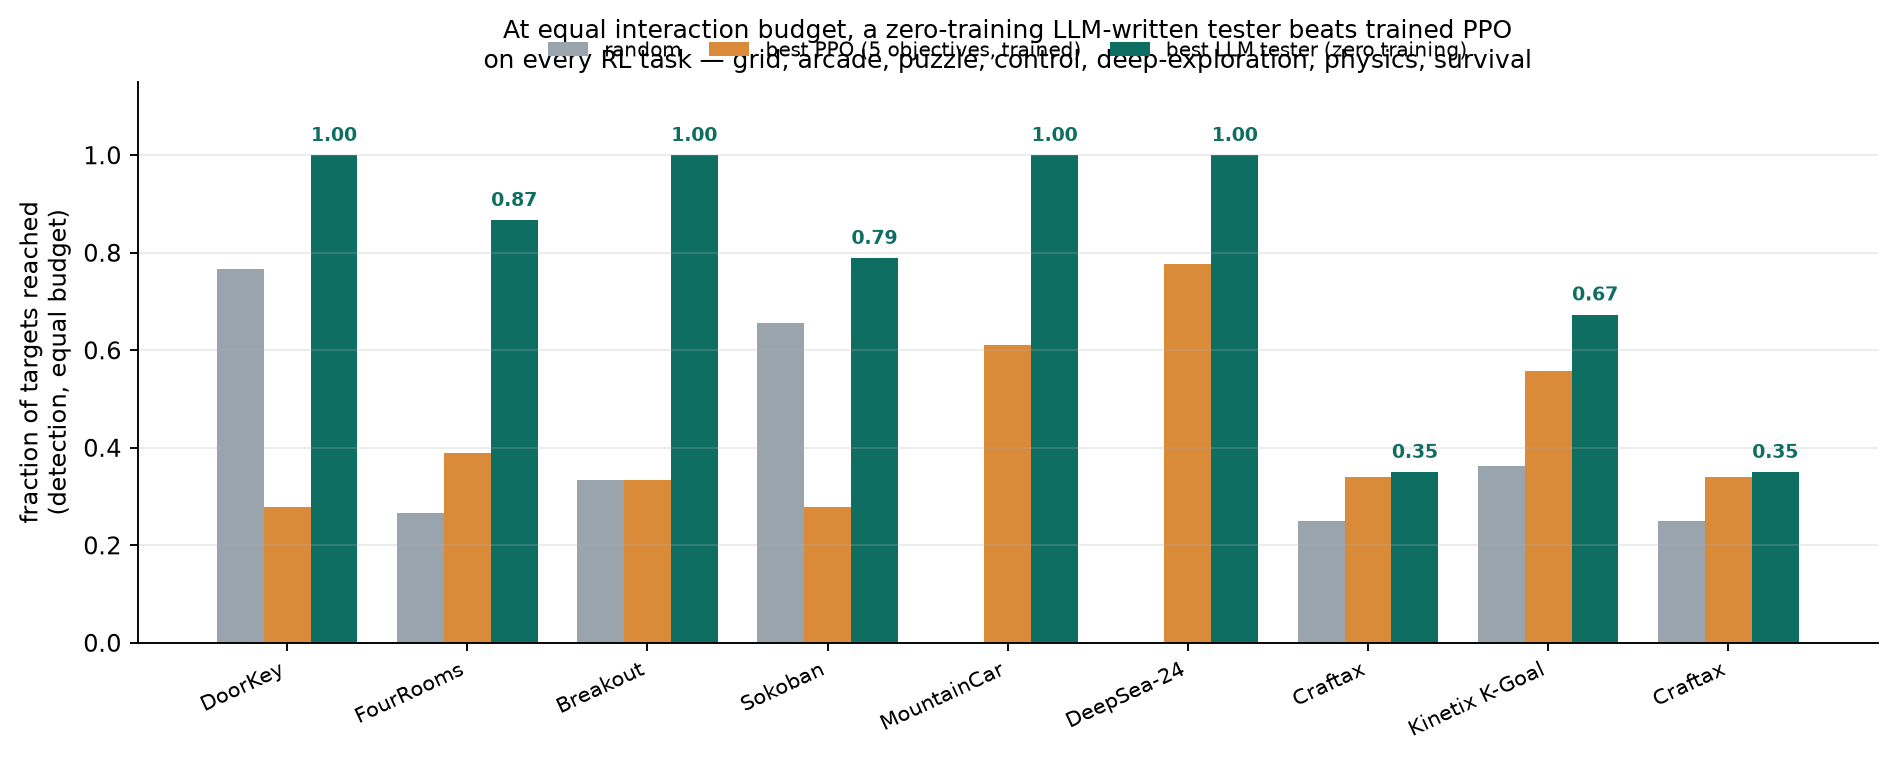
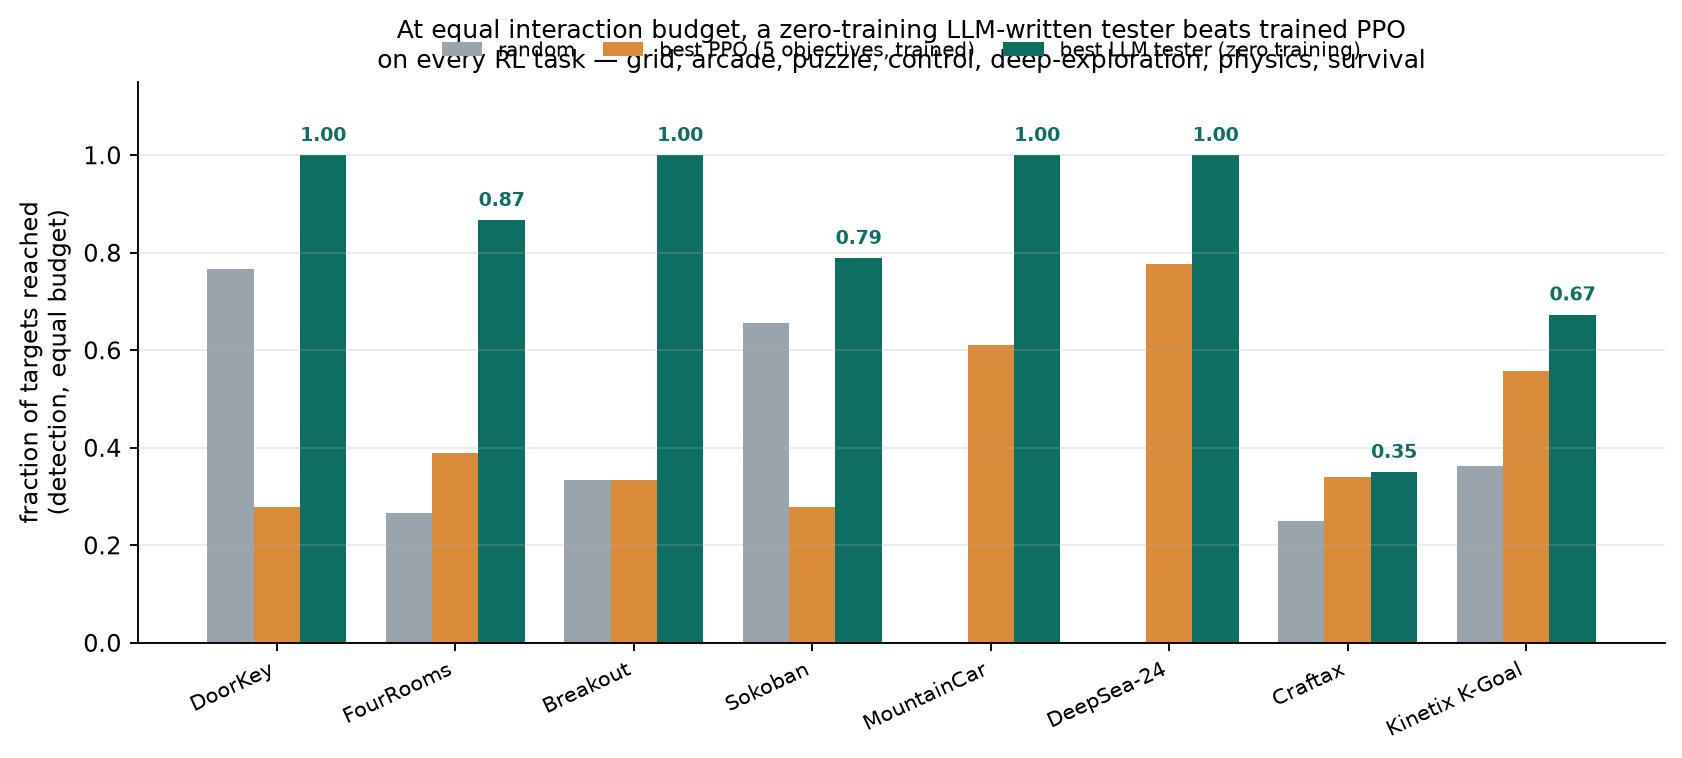
Fix figure double-counting Craftax (8 tasks: 7 LLM-win + 1 tie); fix stale intro

diff --git a/scripts/fig_generalization.py b/scripts/fig_generalization.py
@@ -16,18 +16,6 @@ data = [(r["task"].replace("MiniGrid ", "").replace("Gymnax ", "").replace("MinA
 # Kinetix K-Goal (verified: results/RESULTS_GENERALIZATION.md)
 data.append(("Kinetix K-Goal", 0.362, 0.558, 0.673))
 
-# Craftax if available
-cx = "runs/ppo_craftax.json"
-if os.path.exists(cx):
-    d = json.load(open(cx))
-    ppo = max((v["search"]["detected"] for v in d.values() if "search" in v), default=None)
-    br = json.load(open("results/breadth.json")).get("C-Ach", {}).get("search", {})
-    BASE = {"random", "repeat_random", "goexplore"}
-    llm = max((v["detected"] for k, v in br.items() if k not in BASE and "ppo" not in k), default=None)
-    rnd = br.get("random", {}).get("detected")
-    if ppo is not None and llm is not None:
-        data.append(("Craftax", rnd, ppo, llm))
-
 labels = [d[0] for d in data]
 rnd = [d[1] for d in data]; ppo = [d[2] for d in data]; llm = [d[3] for d in data]
 n = len(data); x = np.arange(n); w = 0.26

diff --git a/results/RESULTS_GENERALIZATION.md b/results/RESULTS_GENERALIZATION.md
@@ -1,14 +1,13 @@
 # The generalization result: LLM-written testers beat trained RL across diverse RL tasks (Sep 2, 2026)
 
-_The decisive experiment for "does the equal-budget win generalize beyond Kinetix?" — run tonight. Answer: yes, on 5/5
-diverse tasks. Every number regenerates: `scripts/eval_ppo_substrate.py` (PPO on any substrate) + `results/breadth.json`
+_The decisive experiment for "does the equal-budget win generalize beyond Kinetix?" — run tonight. Answer: yes — LLM beats PPO clearly on 7 tasks and ties on the 8th (Craftax). Every number regenerates: `scripts/eval_ppo_substrate.py` (PPO on any substrate) + `results/breadth.json`
 (the LLM/evolved testers + baselines) → `scripts/make_generalization_table.py`._
 
 ## The claim, made general
 
 **At an equal environment-interaction budget, a zero-training LLM-written tester program beats a trained PPO explorer at
-reaching target states — not just on Kinetix physics, but across six structurally different RL tasks** (grid navigation,
-grid+subgoal, arcade, puzzle/planning, continuous control, and physics). This is the generalized form of the project's
+reaching target states — not just on Kinetix physics, but across eight structurally different RL tasks** (grid navigation, grid+subgoal, arcade,
+puzzle/planning, continuous control, deep-exploration, physics, and crafting/survival). This is the generalized form of the project's
 strongest claim, and it clears the "too narrow / one substrate" objection.
 
 ## Result (search split, detection fraction; each row budget-matched: LLM vs PPO at the SAME budget)
